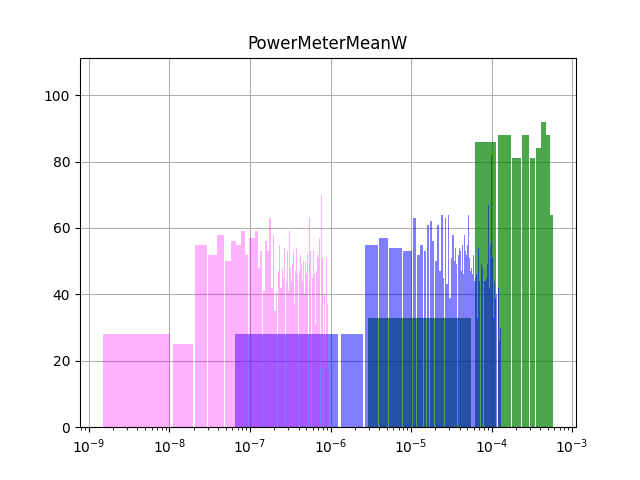
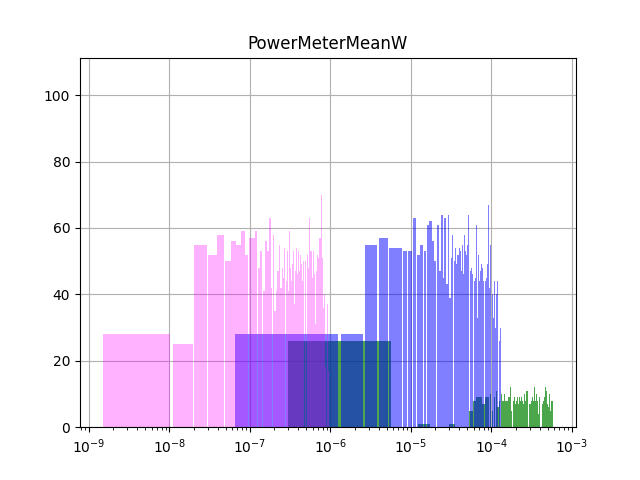
bin

Changed region(s): [[0.4375, 0.25, 0.875, 0.9062]]

diff --git a/test.py b/test.py
@@ -1,7 +1,7 @@
-import pandas as pd
 import numpy as np
 import matplotlib.pyplot as plt
 import os
+import pandas as pd
 from scipy.stats import linregress
 
 # Read file and extract them by columns. 
@@ -74,7 +74,7 @@ plt.savefig(nameDir+'/hNDF3_PowerMeterMeanW.png')
 # Histograms of all variables
 #df['my_column'].plot(kind='hist', logx=True)
 fig, axes = plt.subplots()
-NDF1.hist(ax=axes, column='PowerMeterMeanW', bins=10, grid=True, figsize=(12,8), color='green', zorder=2, rwidth=0.9, alpha = 0.7)
+NDF1.hist(ax=axes, column='PowerMeterMeanW', bins=100, grid=True, figsize=(12,8), color='green', zorder=2, rwidth=0.9, alpha = 0.7)
 NDF2.hist(ax=axes, column='PowerMeterMeanW', bins=100, grid=True, figsize=(12,8), color='blue', zorder=2, rwidth=0.9, alpha = 0.5)
 NDF3.hist(ax=axes, column='PowerMeterMeanW', bins=100, grid=True, figsize=(12,8), color='magenta', zorder=2, rwidth=0.9, alpha = 0.3)
 axes.set_xscale('log')
